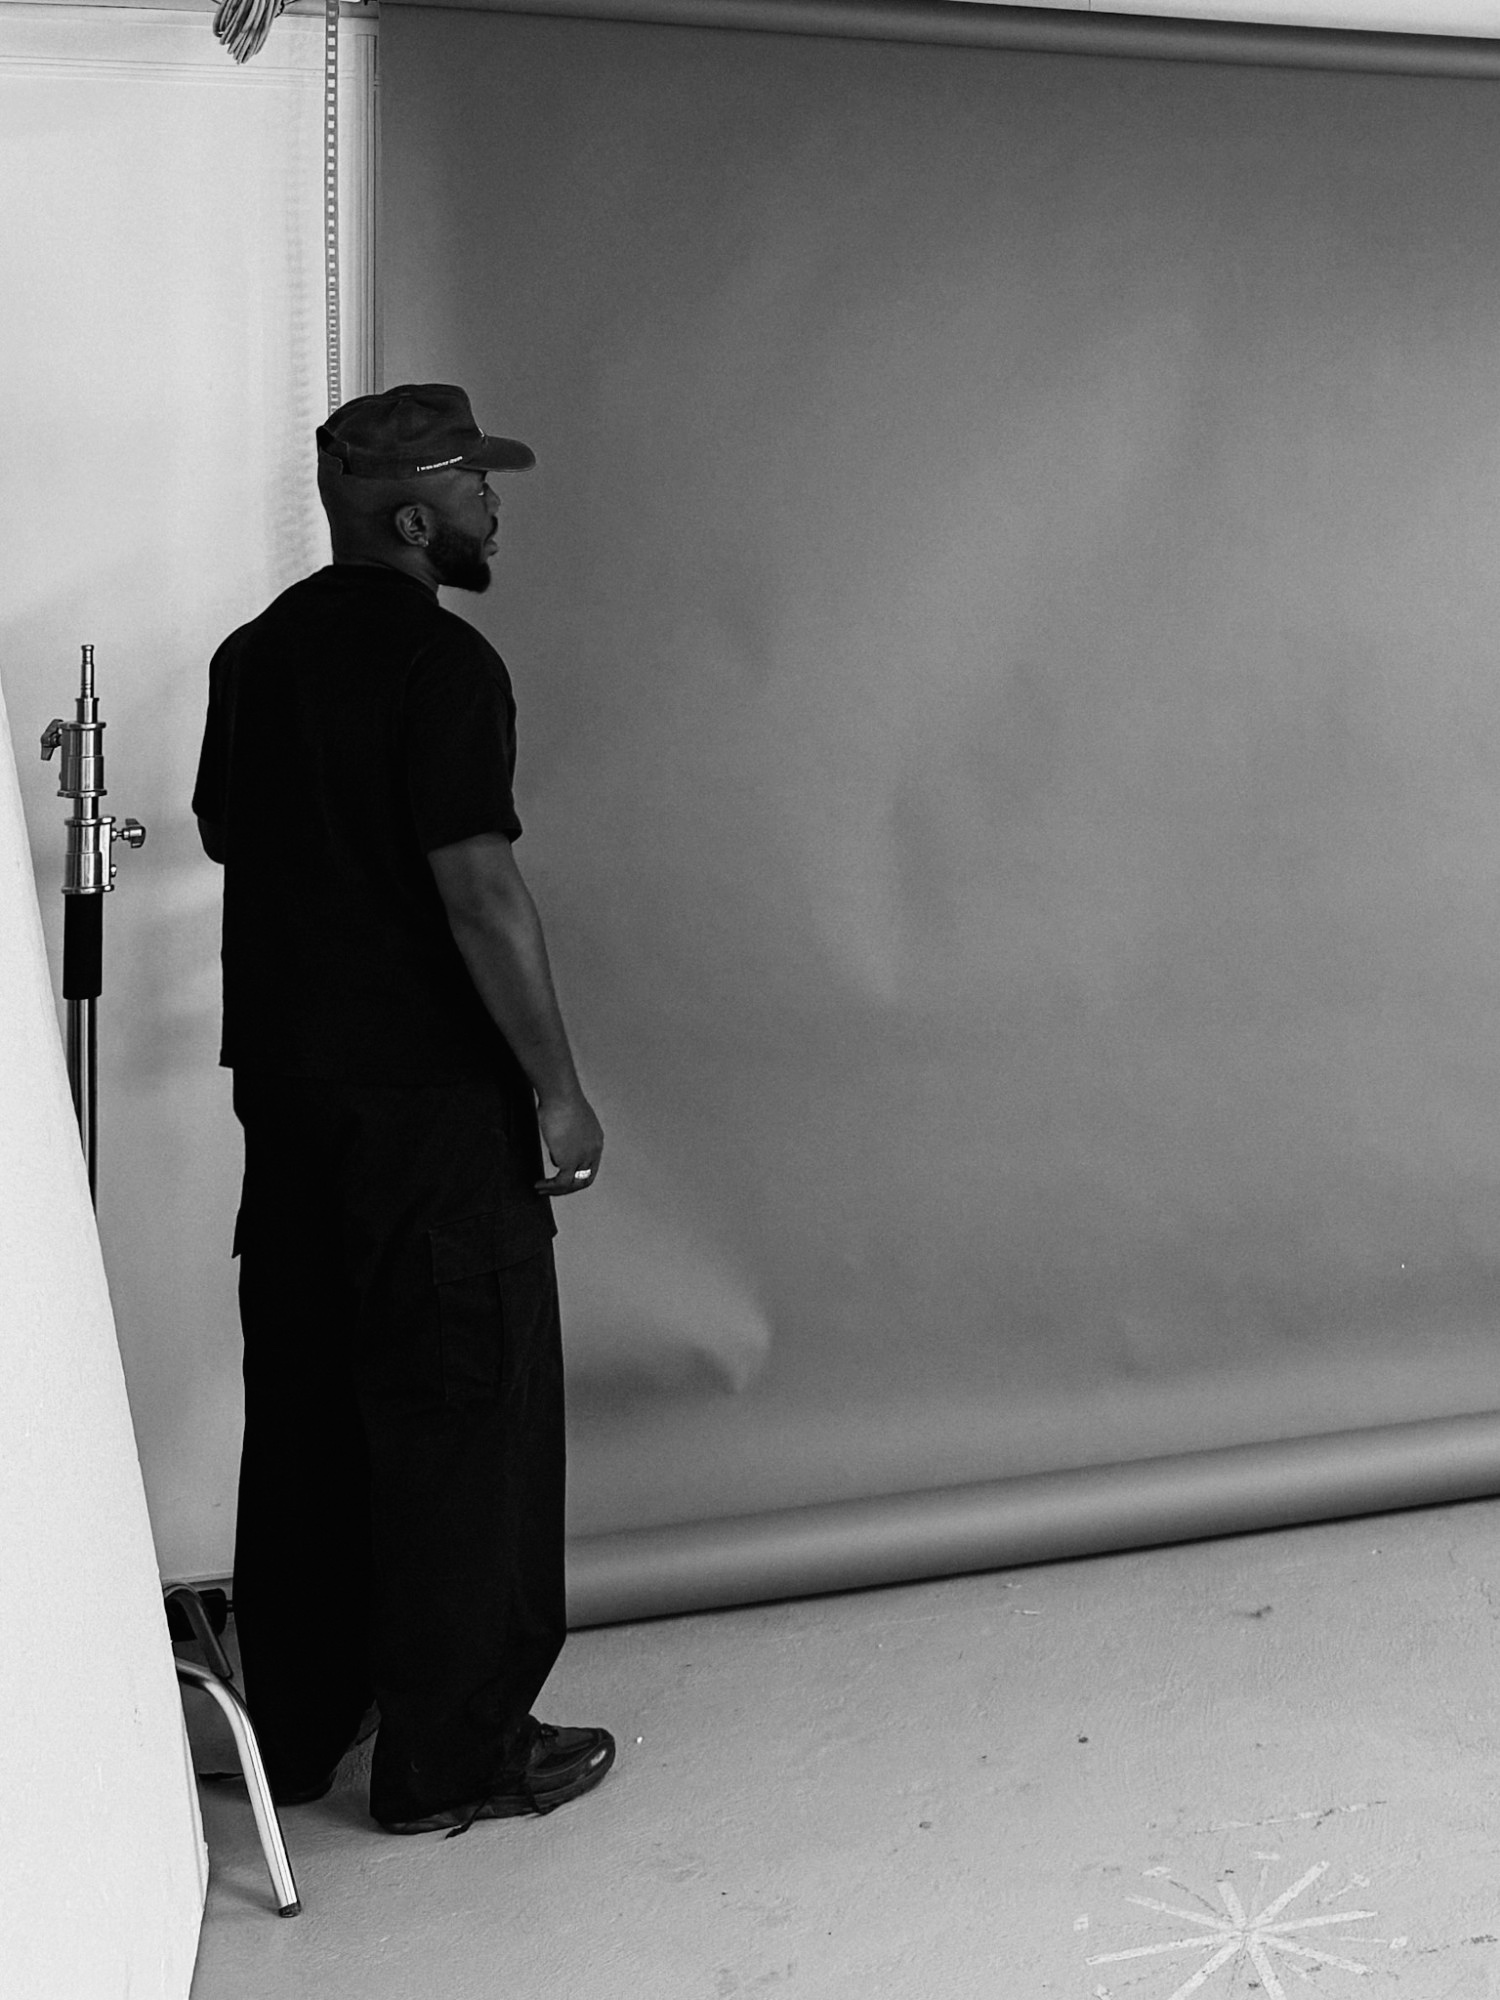
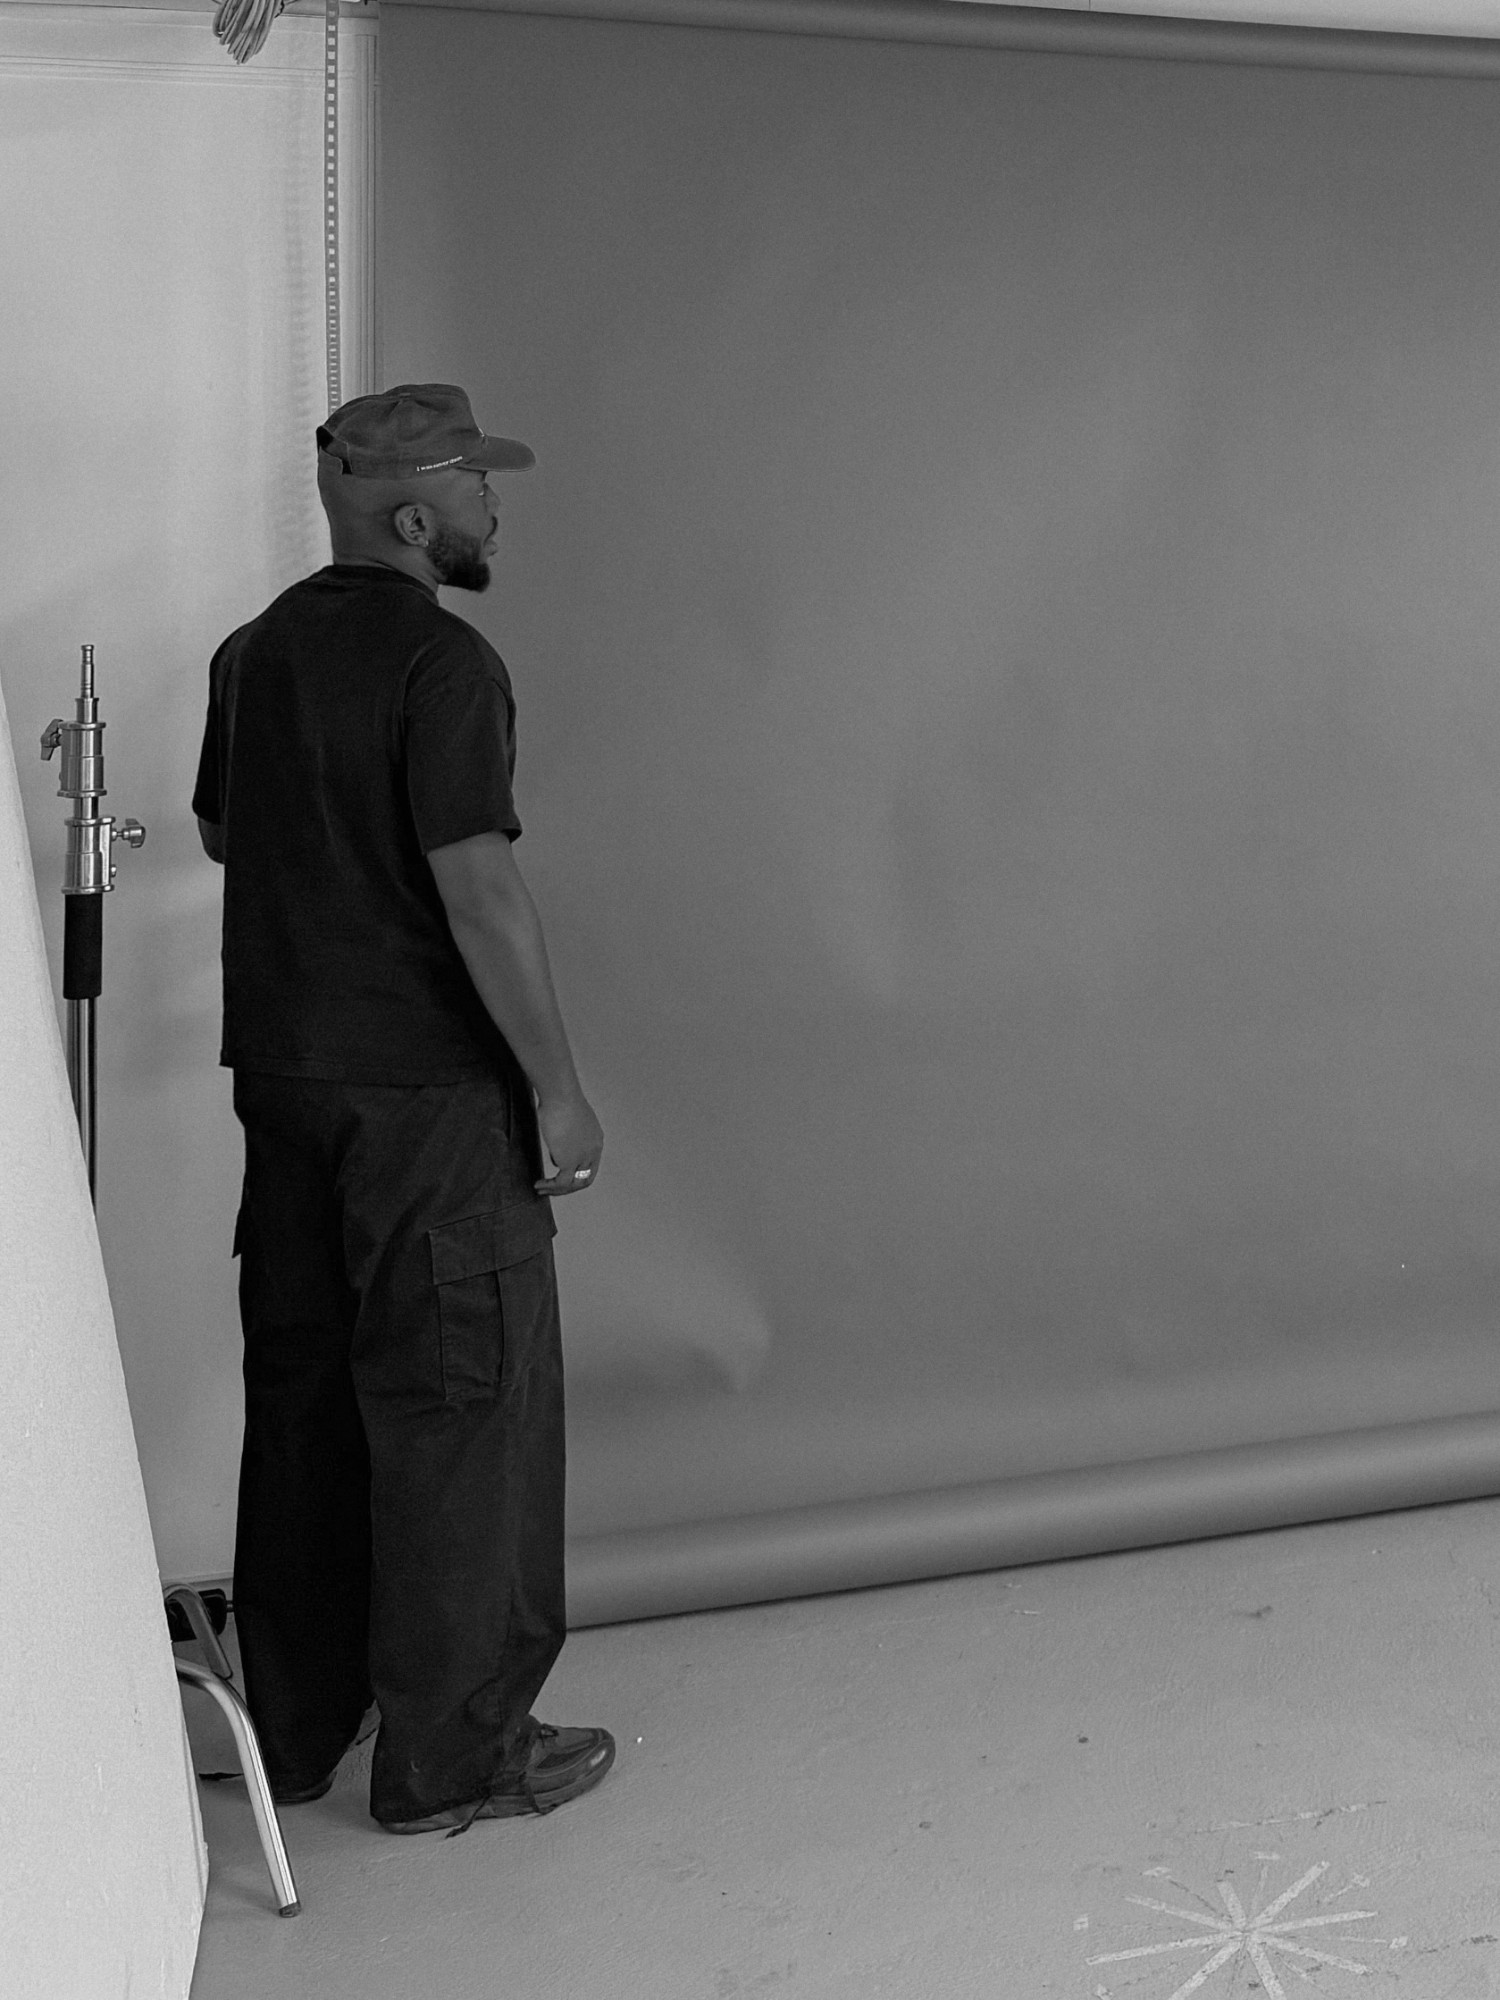
Photo N&B d'origine de Jay, sans contraste ajouté

diff --git a/styles.css b/styles.css
@@ -751,7 +751,7 @@ select.input{background-image:linear-gradient(45deg,transparent 50%,currentColor
 :root{--mono:"IBM Plex Mono",ui-monospace,Menlo,monospace}
 .credit{grid-column:4 / -1;display:grid;grid-template-columns:minmax(0,4fr) minmax(0,5fr);gap:var(--gut);align-items:end;margin-top:clamp(56px,8vw,112px)}
 .credit-photo{margin:0;aspect-ratio:3/4;overflow:hidden;background:#2A2624}
-.credit-photo img{width:100%;height:100%;object-fit:cover;object-position:30% 50%;filter:contrast(1.05)}
+.credit-photo img{width:100%;height:100%;object-fit:cover;object-position:30% 50%}
 .credit-card{display:grid;grid-template-columns:10.5em 1fr;gap:22px 16px;margin:0;font-family:var(--mono);font-size:.8125rem;line-height:1.55;letter-spacing:.02em;text-transform:uppercase}
 .credit-card dt{opacity:.6}
 .credit-card dd{margin:0}
